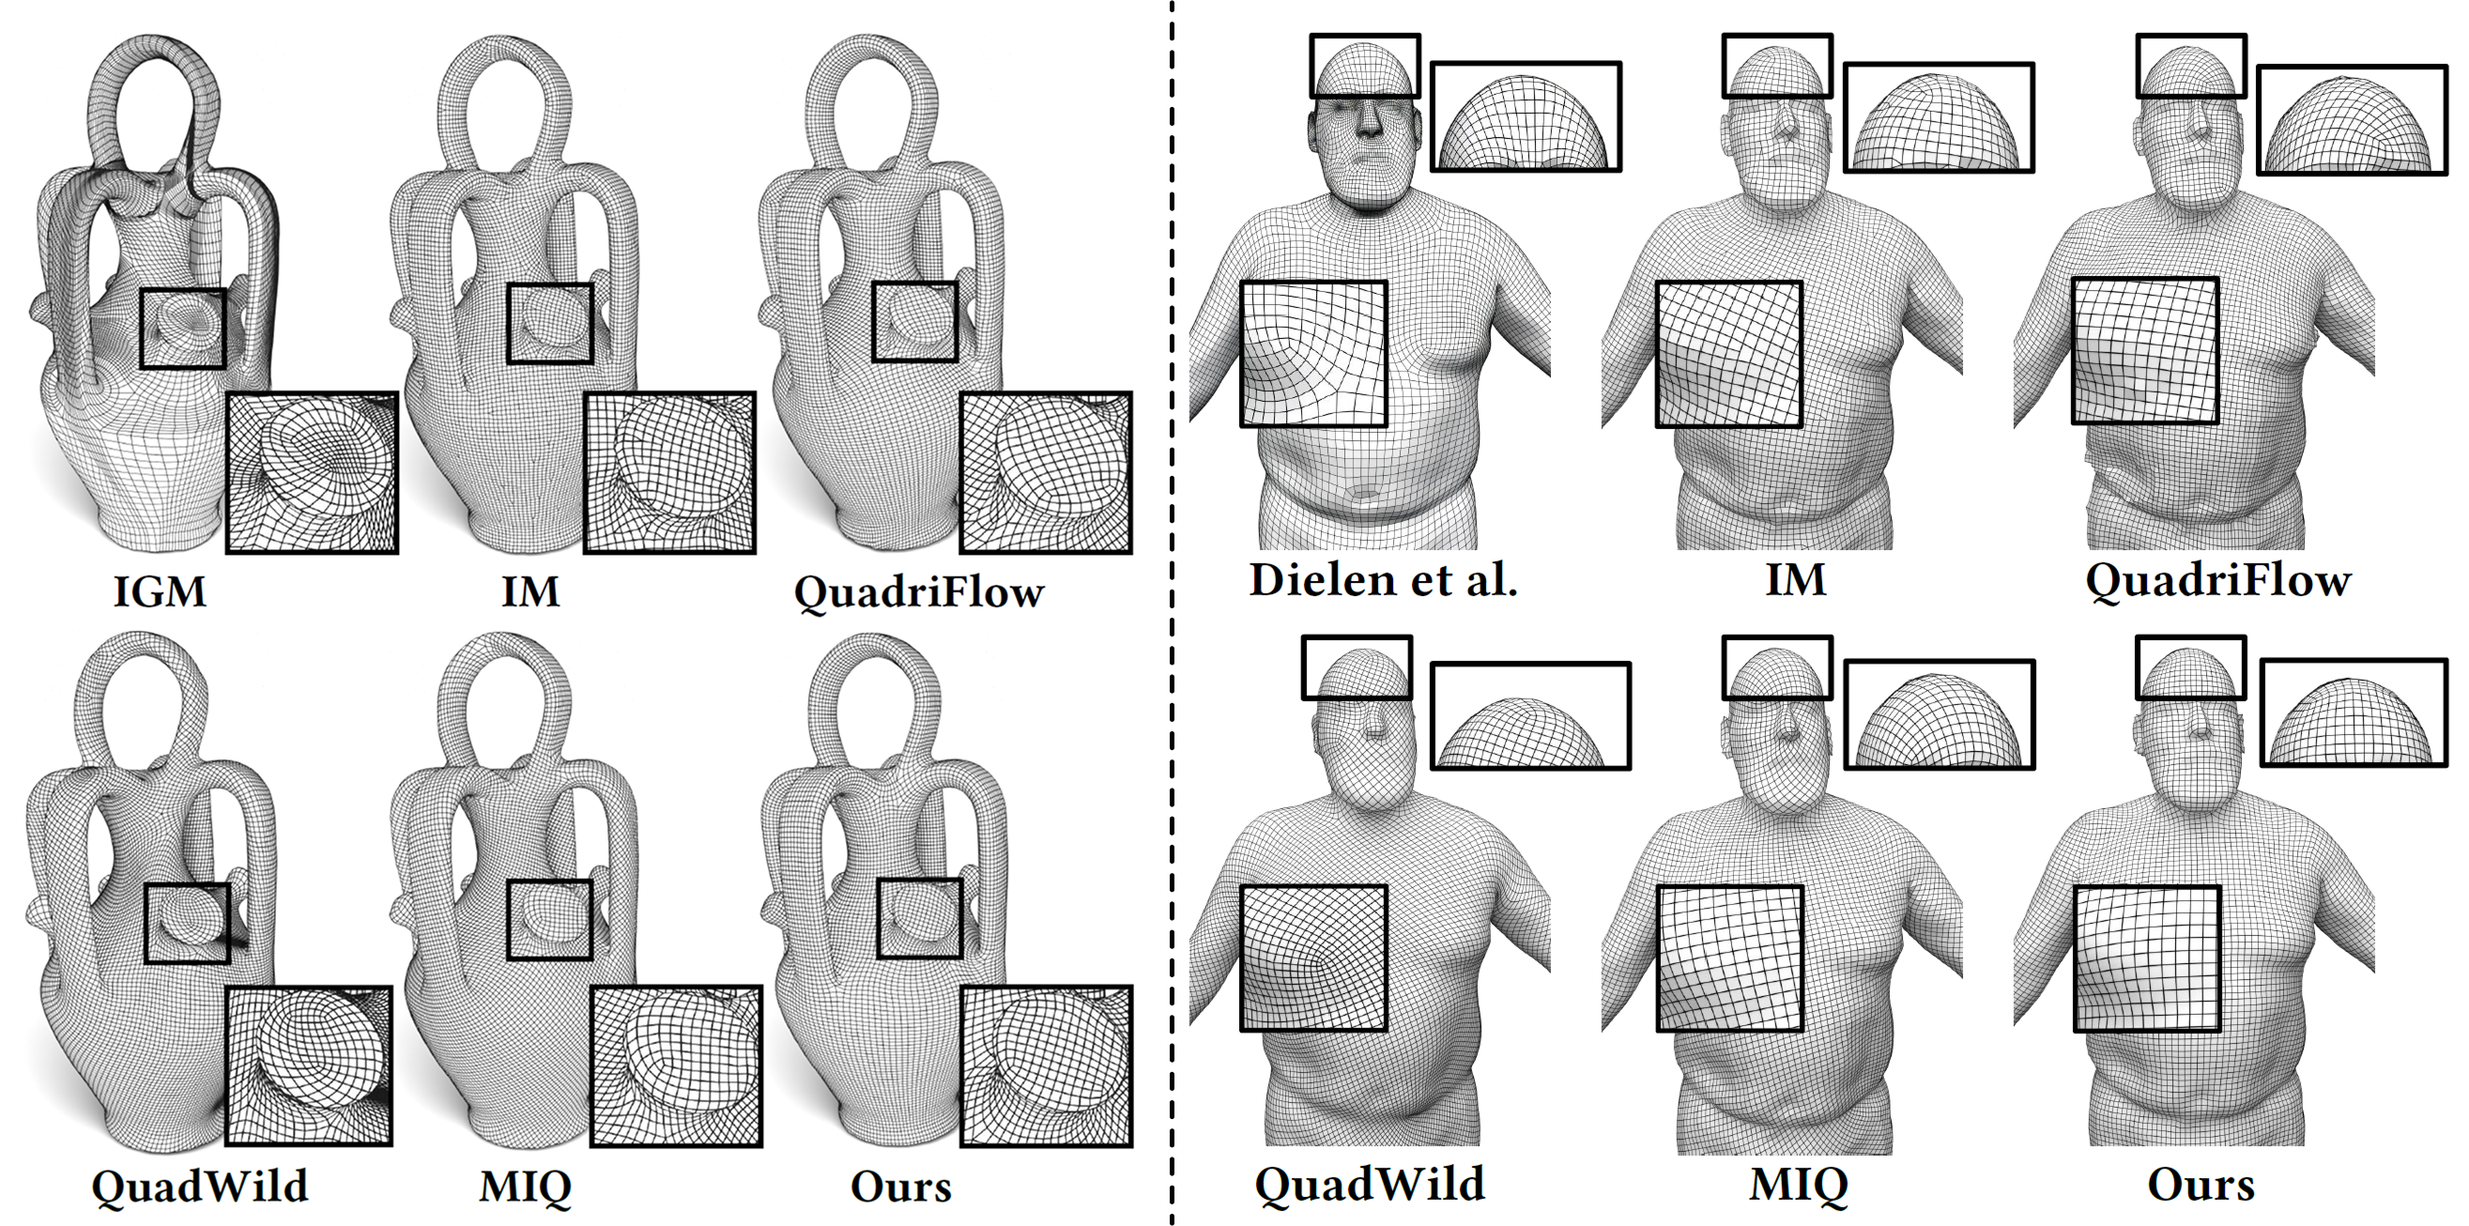
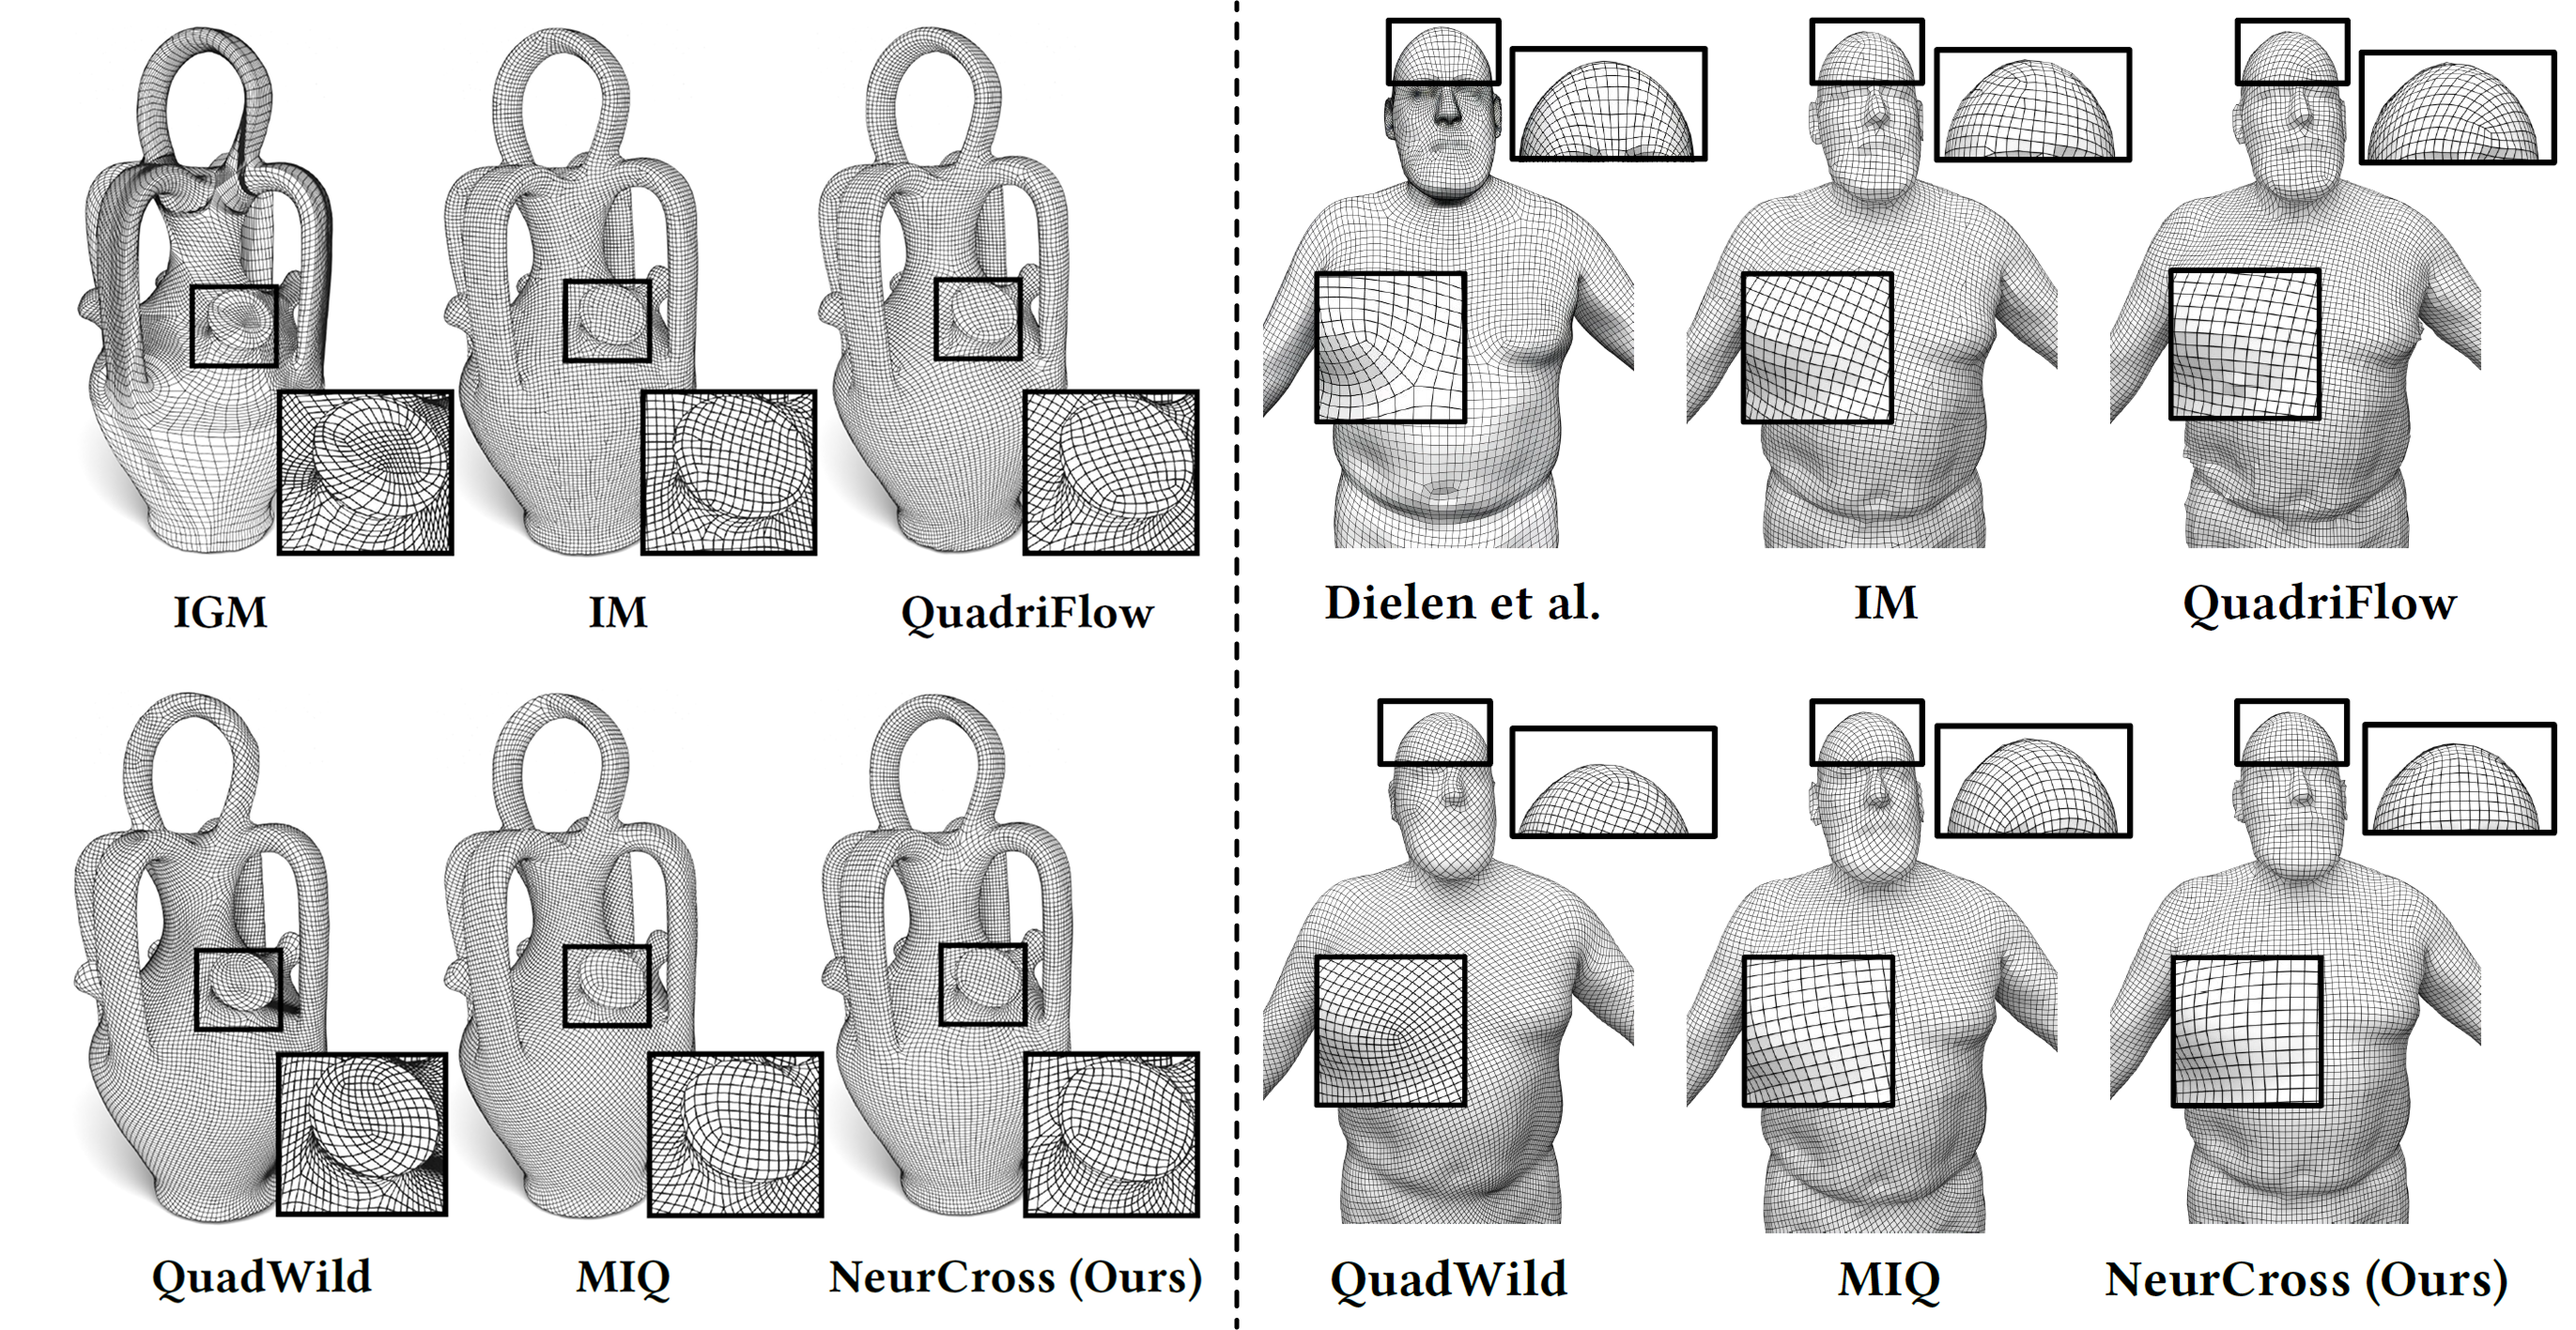
update the NeurCross

diff --git a/publications/NeurCross/index.html b/publications/NeurCross/index.html
@@ -167,6 +167,20 @@
 					Extensive experiments demonstrate that NeurCross outperforms the state-of-the-art methods in terms of singular point placement,
 					robustness against surface noise and surface undulations, and alignment with principal curvature directions and sharp feature curves.
 				</p>
+				<div class="col" style="text-align:center">
+							<img class="thumbnail" src="figs/joint_optimization.png" style="width:95%; margin-bottom:20px">
+							<p style="text-align:justify; text-align-last: center;">
+								(a) The input mesh and its ground-truth principal curvature directions.
+								(b) Two-step optimization: by first precomputing an SDF that precisely fits the input shape,
+								the subsequent optimization step still suffers from sensitivity to minor geometric variations,
+								failing to yield the desired cross field.
+								(c) Joint optimization: by treating the SDF as a proxy for the input shape,
+								simultaneous optimization of the SDF and the cross field allows the SDF to approximate the
+								input shape while remaining robust to minor geometric variations,
+								resulting in the desired cross field.
+								We visualize the fitting errors between the SDF surface and the original surface using a color-coded scheme.
+							</p>
+				</div>
 			</div>
 
 			<div class="section abstract">
@@ -225,11 +239,27 @@
 						</div>
 
 						<div class="col" style="text-align:center">
+							<img class="thumbnail" src="figs/further_comparison.png" style="width:95%; margin-bottom:20px">
+							<p style="text-align:justify; text-align-last: center;">
+								Comparison of quad meshes generated by Power Fields, PolyVectors (left), IM (middle), and Quad Remesher (right).
+							</p>
+						</div>
+
+						<div class="col" style="text-align:center">
 							<img class="thumbnail" src="figs/singular_points.png" style="width:95%; margin-bottom:20px">
 							<p style="text-align:justify; text-align-last: center;">
 								Quad meshes generated by all the methods on two models from ShapeNet (the airplane model)
 								and Thingi10K (the grayloc model).
 								We also show the locations of singular points, where "# of Sings" denotes the number of singular points on each quad mesh.
+							</p>
+						</div>
+
+						<div class="col" style="text-align:center">
+							<img class="thumbnail" src="figs/resistance_to_noise.png" style="width:95%; margin-bottom:20px">
+							<p style="text-align:justify; text-align-last: center;">
+								The top row shows the cross field generated by our method and four other methods on a noisy input mesh.
+								The bottom row shows the resulting quad meshes produced by each approach.
+								Note that MIQ fails to produce a valid result for this input surface with noise.
 							</p>
 						</div>
 
